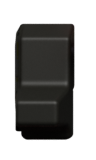
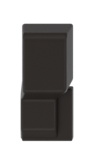
feat(panel): model drawbar and layer caps after the real parts
Owner photos of the real caps: black and white drawbars are one part, so
they now share one geometry and camera and differ only by material (no
per-instance projection). Drawbar cap: block with tapered sides and sloped
front, long lower nose offset left with chamfered front, low foot. Layer
cap: rounded frustum. Calibrated materials, Blender shadows.

Changed region(s): [[0.1562, 0.125, 0.7812, 0.9062]]

diff --git a/assets/blender/parts_cap.py b/assets/blender/parts_cap.py
@@ -1,104 +1,91 @@
 """Drawbar / layer-fader cap and its slotted plate for the B7 proof (runs inside Blender).
 
-Original art (D16): authored from two extruded side profiles. Sizes are numbers measured on the
-owner's private reference (1 u = 129 reference px, see parts_knob.REF_PX_PER_U).
+Original art (D16): geometry authored from primitives (lofted sections); shapes follow the
+owner's photos of the real parts. Sizes are numbers measured on the owner's private reference (1 u = 129 reference px, see parts_knob.REF_PX_PER_U).
 """
 
 from __future__ import annotations
 
-import bmesh
 import bpy
-from proof_geom import box, loft, mesh_obj
+from proof_geom import box, loft
 
-# EMPIRICAL: white drawbar cap on the reference is 100 px wide and 231 px long; the lower nose
-# block is narrower (85 px), shifted left, and ends in a chamfer that reads as a 30 px band.
-CAP_W = 0.85  # EMPIRICAL: fitted to the reference cap silhouettes (IoU), was 0.78
+# Shape EMPIRICAL from photos of the real parts (owner, 2026-11-13): the drawbar cap is one
+# part: a tall rear block whose sides and front slope inward, and a long lower nose with a
+# chamfered front, narrower and offset left (reference). Plan size EMPIRICAL from the
+# reference (100 x 231 px = 0.78 x 1.79 u at the base). Black and white caps share this geometry.
+CAP_W = 0.80
 CAP_BACK, CAP_FRONT = 0.90, -0.89
-# ASSUMED: top block, nose and front skirt heights (only the lean and shading show them).
-CAP_HT, CAP_HN, CAP_HS = 0.50, 0.30, 0.04
-SKIRT_H = 0.16  # ASSUMED: lower body height (only its outline is measured)
-NOSE_X = (-0.45, 0.16)  # EMPIRICAL: nose left / right edge (black 16' cap, 4x zoom read)
-CAP_TAPER = 0.05  # EMPIRICAL: side walls lean in by this fraction of the width at the top
-CAP_BEVEL = 0.07  # EMPIRICAL: soft rounded edges, larger than v2's 0.03
+CAP_HT, CAP_HN = 0.50, 0.26  # ASSUMED heights (photo ratio about 2 : 1)
+BLOCK_FRONT = -0.18  # base of the block's sloped front face
+BLOCK_TOP_FRONT = 0.02  # top edge of that face
+NOSE_TOP_FRONT, NOSE_CHAMFER_Z = -0.66, 0.08  # front chamfer of the nose
+# EMPIRICAL (reference, every drawbar): the nose is narrower than the block and offset left
+NOSE_X = (-0.42, 0.18)
+FOOT_H = 0.12  # ASSUMED: low base under the nose, full width
+CAP_TAPER = 0.18  # EMPIRICAL: block top is about 0.82 of its base width (photo, front view)
+CAP_BEVEL = 0.07
 CAP_LIFT = 0.03  # cap floats above the plate so the slot shows under it
-# EMPIRICAL: grey layer-fader cap on the reference is 96 px wide and 74 px long.
-LAYER_W, LAYER_L = 0.69, 0.585  # EMPIRICAL: silhouette fit (was 0.75 x 0.57)
-LAYER_H = 0.34  # ASSUMED
-LAYER_BEVEL = 0.09  # EMPIRICAL: the layer cap reads as a rounder, pillowy block
+# Layer-fader cap EMPIRICAL from its photo: a frustum, top smaller than the base on all sides,
+# rounded edges. Base 96 x 74 reference px.
+LAYER_W, LAYER_L, LAYER_H = 0.74, 0.58, 0.36
+LAYER_TOP = (0.82, 0.50)  # top width / length as a fraction of the base
+LAYER_BEVEL = 0.07
 # EMPIRICAL: slot is about 22 px wide on the reference, 0.22 of the cap width.
 SLOT_W, SLOT_LEN, SLOT_DEPTH, PLATE_T = 0.17, 3.4, 0.16, 0.2
 
 
-def _extrude_profile(name, prof, x0, x1, mat, z_top, bevel=CAP_BEVEL):
-    """Extrude a (y, z) side profile between x0 and x1, then lean the side walls inward with
-    height (the sloped wall of the reference caps)."""
-    bm = bmesh.new()
-    lo = [bm.verts.new((x0, y, z)) for y, z in prof]
-    hi = [bm.verts.new((x1, y, z)) for y, z in prof]
-    bm.faces.new(lo[::-1])
-    bm.faces.new(hi)
-    n = len(prof)
-    for i in range(n):
-        j = (i + 1) % n
-        bm.faces.new((lo[i], lo[j], hi[j], hi[i]))
-    cx, w = (x0 + x1) / 2, x1 - x0
-    for v in bm.verts:
-        k = CAP_TAPER * (v.co.z / z_top) * w / 2
-        v.co.x -= k if v.co.x > cx else -k
-        v.co.z += CAP_LIFT
-    bmesh.ops.recalc_face_normals(bm, faces=bm.faces)
-    return mesh_obj(name, bm, mat, bevel=bevel, segments=8, angle=20)
+def _section(y, z, top_frac, x0=-CAP_W / 2, x1=CAP_W / 2):
+    """Trapezoid cross-section at y between x0 and x1, `top_frac` of that width on top."""
+    c, hb = (x0 + x1) / 2, (x1 - x0) / 2
+    ht, zl = hb * top_frac, CAP_LIFT
+    return [(c - hb, y, zl), (c + hb, y, zl), (c + ht, y, zl + z), (c - ht, y, zl + z)]
 
 
-def _section(y, x0, x1, z):
-    """Cross-section ring at y: bottom edge, then the top edge pulled in by the wall slope."""
-    k = CAP_TAPER * (x1 - x0) / 2 * min(1.0, z / CAP_HT)
-    zl = CAP_LIFT
-    return [(x0, y, zl), (x1, y, zl), (x1 - k, y, zl + z), (x0 + k, y, zl + z)]
+def _frac(z):
+    return 1.0 - CAP_TAPER * z / CAP_HT
 
 
 def fader_cap(m, key):
-    """Drawbar cap, lofted from back to front: rounded back chamfer, long flat top, a slope that
-    narrows into a lower nose shifted left, then the front skirt at the foot (shadowed by the
-    nose). `key` picks cap_black / cap_white."""
-    ht, hn, hs = CAP_HT, CAP_HN, CAP_HS
-    half = CAP_W / 2
-    nx0, nx1 = NOSE_X
-    sections = [
-        (CAP_BACK, -half, half, ht - 0.12),
-        (CAP_BACK - 0.20, -half, half, ht),
-        (-0.10, -half, half, ht),
-        (-0.38, nx0, nx1, hn),
-        (-0.66, nx0, nx1, hn),
-        (-0.74, nx0, nx1, 0.06),
+    """Drawbar cap: flange, tall rear block with sloped sides and front, long lower nose with
+    a chamfered front, lofted from back to front. `key` picks the material."""
+    ht, hn = CAP_HT, CAP_HN
+    w = (-CAP_W / 2, CAP_W / 2)
+    secs = [
+        (CAP_BACK, ht * 0.86, *w),
+        (CAP_BACK - 0.08, ht, *w),
+        (BLOCK_TOP_FRONT, ht, *w),
+        (BLOCK_FRONT, hn, *NOSE_X),
+        (NOSE_TOP_FRONT, hn, *NOSE_X),
+        (CAP_FRONT, NOSE_CHAMFER_Z, *NOSE_X),
     ]
-    body = loft(
-        "cap_body",
-        [_section(*s) for s in sections],
+    rings = [_section(y, z, _frac(z), x0, x1) for y, z, x0, x1 in secs]
+    body = loft("cap_body", rings, m[key], smooth=False, bevel=CAP_BEVEL, segments=8)
+    # the nose sits on a low full-width foot that ends with the nose (seen right of the nose)
+    foot = loft(
+        "cap_foot",
+        [_section(y, FOOT_H, 0.97) for y in (BLOCK_FRONT + 0.1, CAP_FRONT)],
         m[key],
         smooth=False,
-        bevel=CAP_BEVEL,
-        segments=8,
+        bevel=0.02,
+        segments=3,
     )
-    skirt = _extrude_profile(
-        "cap_skirt",
-        # EMPIRICAL: the lower body runs full width under and right of the nose down to the
-        # front (silhouette fit on the reference)
-        [(-0.08, 0.0), (-0.08, SKIRT_H), (CAP_FRONT + 0.03, SKIRT_H), (CAP_FRONT, 0.0)],
-        -half,
-        half,
-        m[key],
-        hs,
-    )
-    return [body, skirt]
+    return [body, foot]
 
 
 def layer_cap(m, key):
-    """Short layer-fader cap: a small back chamfer, a short flat top and a long front slope (the
-    reference shows the slope as the largest face)."""
-    ht, y0, y1 = LAYER_H, -LAYER_L / 2, LAYER_L / 2
-    prof = [(y1, 0.0), (y1, ht - 0.08), (y1 - 0.08, ht), (0.05, ht), (y0 + 0.03, 0.10), (y0, 0.0)]
-    return [_extrude_profile("layer_cap", prof, -LAYER_W / 2, LAYER_W / 2, m[key], ht, LAYER_BEVEL)]
+    """Layer-fader cap: rounded frustum, top smaller than the base on all four sides."""
+    w, ln, h = LAYER_W / 2, LAYER_L / 2, LAYER_H
+    tw, tl = w * LAYER_TOP[0], ln * LAYER_TOP[1]
+    rings = [
+        [(-w, -ln, CAP_LIFT), (w, -ln, CAP_LIFT), (w, ln, CAP_LIFT), (-w, ln, CAP_LIFT)],
+        [
+            (-tw, -tl, CAP_LIFT + h),
+            (tw, -tl, CAP_LIFT + h),
+            (tw, tl, CAP_LIFT + h),
+            (-tw, tl, CAP_LIFT + h),
+        ],
+    ]
+    return [loft("layer_cap", rings, m[key], smooth=False, bevel=LAYER_BEVEL, segments=6)]
 
 
 def plate_slot(m):

diff --git a/assets/blender/build_proof.py b/assets/blender/build_proof.py
@@ -93,25 +93,20 @@ def render_ref_knobs(out: Path, scale: int) -> None:
 
 
 CAPS = {
-    "drawbar_cap_black": ("drawbar_shadow_black", C.fader_cap),
-    "drawbar_cap_white": ("drawbar_shadow_white", C.fader_cap),
-    "layer_cap_grey": ("layer_shadow_grey", C.layer_cap),
+    "drawbar_cap_black": ("drawbar_shadow_black", C.fader_cap, "cap_black", "drawbar"),
+    "drawbar_cap_white": ("drawbar_shadow_white", C.fader_cap, "cap_white", "drawbar"),
+    "layer_cap_grey": ("layer_shadow_grey", C.layer_cap, "cap_grey", "layer"),
 }
 
 
 def render_caps(out: Path, scale: int) -> None:
-    """3D caps textured by camera projection (D17): the geometry gives the silhouette and its
-    anti-aliased edge, the reference crop (`proj_<cap>.png` from tools/panel_refbake.py,
-    already aligned to this camera's frame) gives the colour, unlit. Then the cap's shadow
-    on the slotted plate from the same geometry and lean."""
-    for name, (shadow, make) in CAPS.items():
-        m = fresh(scale, name, name)
-        mat = M.projected(f"proj_{name}", P.RAW_DIR / f"proj_{name}.png")
-        make({"proj": mat}, "proj")
-        cy = bpy.context.scene.cycles
-        cy.use_denoising, cy.samples = False, 64  # unlit texture: no noise, keep it sharp
+    """Caps as real parts: one geometry per part (both drawbar colours share it, same camera),
+    shaded with the calibrated materials, then the cap's shadow from the same geometry."""
+    for name, (shadow, make, mat, lean) in CAPS.items():
+        m = fresh(scale, name, lean)
+        make(m, mat)
         S.render(out / f"{name}_{scale}x.png")
-        m = fresh(scale, shadow, name)
+        m = fresh(scale, shadow, lean)
         S.flags(C.plate_slot(M.catcher_mats()), catcher=True)
         S.flags(make(m, "cap_black"), holdout=True)
         S.render(out / f"{shadow}_{scale}x.png")

diff --git a/assets/blender/proof_materials.py b/assets/blender/proof_materials.py
@@ -35,7 +35,7 @@ GAIN = {
     "silver": (1.091, 1.101, 1.078),
     "cap_black": (0.38, 0.307, 0.24),
     "cap_white": (1.059, 1.05, 1.039),
-    "cap_grey": (1.418, 1.407, 1.368),
+    "cap_grey": (1.12, 1.112, 1.081),
     "ring": (1.08, 1.08, 1.06),
     "knob_side": (1.8, 1.8, 1.8),
     "knob_top": (0.7, 0.66, 0.6),
@@ -175,7 +175,7 @@ def mats() -> dict[str, bpy.types.Material]:
         "pointer": material("pointer", u["pointer"], 0.45),
         "ring": material("ring", u["ring_white"], 0.6, gain=GAIN["ring"], spec=0.2),
         "cap_black": material(
-            "cap_black", u["cap_black_top"], 0.32, gain=GAIN["cap_black"], spec=0.8
+            "cap_black", u["cap_black_top"], 0.4, gain=GAIN["cap_black"], spec=0.35
         ),
         "cap_white": material(
             "cap_white", u["cap_white_top"], 0.35, gain=GAIN["cap_white"], spec=0.6

diff --git a/tools/panel_assets.py b/tools/panel_assets.py
@@ -53,7 +53,7 @@ LEAN = {
     # optical axis is above that knob (the reference is cropped off-centre vertically).
     "knob_master": (6.57, 1.0),
     "knob_drive": (6.57, 1.4),
-    "drawbar": (1.3, 2.97),
+    "drawbar": (1.3, 5.3),  # EMPIRICAL: between the 16' and 8' caps, axis above centre
     "layer": (5.29, -2.73),
     "button": (6.59, 0.70),
     "plate": (0.0, 0.0),

diff --git a/docs/research/panel-blender-proof.md b/docs/research/panel-blender-proof.md
@@ -65,7 +65,9 @@ MAD (mean absolute difference, 0..255) compares ours with the same reference are
 
 Sizes with the full style set: the proof set is 824 KB (1x) / 2.76 MB (2x) PNG. The full-panel estimate assumes 6 knob styles and 15 button styles, each button getting two more states later: 2.16 MB / 6.64 MB PNG, and 15.5 MB / 62.1 MB RGBA in GPU memory. The private comparison sheet is `.reference/panel-compare-v5.png`.
 
-Owner review of v4 (2026-11-13): the Blender drawbar and layer caps did not match, the DRIVE knob looked flat with a light red rim, and its "6" was clipped. Fixes: the caps are now cut from the reference with their own shadow layers. The knob edge colours are taken from the cap interior instead of the red plate. Second review: the plate grain was too soft (patch blending and the whole-tile cross-fade averaged two textures), so the tiles are now quilted on a torus with narrow overlaps. The caps showed a light halo, LED glow and label ticks; they now use a colour matte on the edge (alpha from the position between the local cap and plate colours), the LED glow is recoloured from the clean cap, the top block sides are straightened, and the shadow layer leaves out the edge pixels next to the cap. The button crops are inset 1 px. Third review: light bits at the white cap corners came from the silver label next to the cap unmixing as cap; bluish pixels outside the cap are now always transparent. The plate behind the caps (`plate_slate_slot`) was still the Blender slate; `pack` now keeps only the Blender slot and fills the plate with the reference slate tile shifted to the darker slate of the drawbar area (47, 57, 68), so that plate is now reference-derived (D17). Fifth review (cutouts replaced by 3D): the owner asked for real rendered borders. The caps are now Blender geometry (`parts_cap.py`) rendered with a camera at each cap's own lean (`panel_assets.LEAN`). The material is unlit and shows the reference crop through window (screen) coordinates, so the crop is projected onto the geometry from that camera (`proof_materials.projected`). The crop comes from `tools/panel_refcaps.projection_texture`, with the plate around the cap filled with cap colour. The silhouette and its anti-aliased edge therefore come from the geometry, and the colour from the reference. The geometry was fitted to the reference silhouettes: cap width 0.85 u, lower body full width from under the top block to the front, layer cap 0.69 x 0.585 u, and per-cap centre and lean. Silhouette IoU (rendered alpha vs reference cap mask, 2x): black 0.94, white 0.94, grey layer 0.90. The shadows are 3D shadow-catcher renders from the same geometry. The previous 2D cut-out steps described next were superseded for the caps.
+Owner review of v4 (2026-11-13): the Blender drawbar and layer caps did not match, the DRIVE knob looked flat with a light red rim, and its "6" was clipped. Fixes: the caps are now cut from the reference with their own shadow layers. The knob edge colours are taken from the cap interior instead of the red plate. Second review: the plate grain was too soft (patch blending and the whole-tile cross-fade averaged two textures), so the tiles are now quilted on a torus with narrow overlaps. The caps showed a light halo, LED glow and label ticks; they now use a colour matte on the edge (alpha from the position between the local cap and plate colours), the LED glow is recoloured from the clean cap, the top block sides are straightened, and the shadow layer leaves out the edge pixels next to the cap. The button crops are inset 1 px. Third review: light bits at the white cap corners came from the silver label next to the cap unmixing as cap; bluish pixels outside the cap are now always transparent. The plate behind the caps (`plate_slate_slot`) was still the Blender slate; `pack` now keeps only the Blender slot and fills the plate with the reference slate tile shifted to the darker slate of the drawbar area (47, 57, 68), so that plate is now reference-derived (D17). Sixth review (real parts): with the owner's photos of the real drawbar and layer-fader caps, the black and white drawbar caps are one shared part rendered with the same camera (`LEAN["drawbar"]`) and the calibrated materials, not two shapes fitted per instance with the reference projected on them. The drawbar cap is a lofted block with sides tapering to 0.82 of the base, a sloped front, a long lower nose (narrower and offset left, as on every drawbar of the reference) with a chamfered front, on a low full-width foot. The layer cap is a rounded frustum. The projection step below is kept in the tools but no longer used by the caps.
+
+Fifth review (cutouts replaced by 3D): the owner asked for real rendered borders. The caps are now Blender geometry (`parts_cap.py`) rendered with a camera at each cap's own lean (`panel_assets.LEAN`). The material is unlit and shows the reference crop through window (screen) coordinates, so the crop is projected onto the geometry from that camera (`proof_materials.projected`). The crop comes from `tools/panel_refcaps.projection_texture`, with the plate around the cap filled with cap colour. The silhouette and its anti-aliased edge therefore come from the geometry, and the colour from the reference. The geometry was fitted to the reference silhouettes: cap width 0.85 u, lower body full width from under the top block to the front, layer cap 0.69 x 0.585 u, and per-cap centre and lean. Silhouette IoU (rendered alpha vs reference cap mask, 2x): black 0.94, white 0.94, grey layer 0.90. The shadows are 3D shadow-catcher renders from the same geometry. The previous 2D cut-out steps described next were superseded for the caps.
 
 Fourth review (edge quality): the cap alpha is no longer the ragged pixel mask; it is smoothed geometrically (opening, 2 px blur, threshold at 4x, box downsample), which removes nubs and gives anti-aliased straight edges and round corners, and a 2 px band inside the edge takes the cap colour from the interior. The shadow layer starts below the top 30 % of the cap (LED ladders sit beside the top block). Top-face pointer pixels are inpainted by turning about the leaning top centre. The label mask no longer touches the "6".
 

diff --git a/docs/specs/visual-style-and-panel.md b/docs/specs/visual-style-and-panel.md
@@ -126,7 +126,7 @@ To keep every label legible on standard 1080p/1440p/4K monitors and inside DAW p
 
 ## 6. Baked sprite proof (B7, Phase 6b)
 
-Measured output of the D15 baker (v4, matched feature by feature to the owner's private Organ section render; since [D17](../DECISIONS.md#d17-panel-proof-sprites-may-be-derived-from-the-reference-render) buttons, triangle selectors, knob bodies, the DRIVE scale and plate tiles are cut from the reference by `tools/panel_refbake.py`, and the drawbar and layer caps are 3D renders coloured by the reference projected from their camera, tagged `REFERENCE-DERIVED (D17)`): a knob filmstrip with two separate overlay layers (arc ring, numbered DRIVE scale), drawbar caps (black, white) with one shared shadow, a grey layer-fader cap with its own shadow, grey and black pill buttons in their wells, three seamless plate tiles (red leather, slate, silver header) and the slotted slate plate. Rendered by `assets/blender/build_proof.py`, committed under `assets/panel/proof/` with SHA-256 hashes in `manifest.json` (`python tools/panel_assets.py verify`). Colours and proportions are numbers measured on the reference, stored in [`assets/panel/theme_samples.json`](../../assets/panel/theme_samples.json) (no pixels, D16). Details, method, sizes and what still differs: [panel-blender-proof.md](../research/panel-blender-proof.md).
+Measured output of the D15 baker (v4, matched feature by feature to the owner's private Organ section render; since [D17](../DECISIONS.md#d17-panel-proof-sprites-may-be-derived-from-the-reference-render) buttons, triangle selectors, knob bodies, the DRIVE scale and plate tiles are cut from the reference by `tools/panel_refbake.py`, tagged `REFERENCE-DERIVED (D17)`): a knob filmstrip with two separate overlay layers (arc ring, numbered DRIVE scale), drawbar caps (black, white) with one shared shadow, a grey layer-fader cap with its own shadow, grey and black pill buttons in their wells, three seamless plate tiles (red leather, slate, silver header) and the slotted slate plate. Rendered by `assets/blender/build_proof.py`, committed under `assets/panel/proof/` with SHA-256 hashes in `manifest.json` (`python tools/panel_assets.py verify`). Colours and proportions are numbers measured on the reference, stored in [`assets/panel/theme_samples.json`](../../assets/panel/theme_samples.json) (no pixels, D16). Details, method, sizes and what still differs: [panel-blender-proof.md](../research/panel-blender-proof.md).
 
 | Item | Value | Tag |
 |---|---|---|
@@ -136,8 +136,8 @@ Measured output of the D15 baker (v4, matched feature by feature to the owner's 
 | Knob filmstrip | 64 frames, 8x8 grid, frame 96 px (1x) / 192 px (2x), transparent, pointer -135 to +135 deg clockwise; 20 flutes, bent tapered pointer | rotation and proportions `EMPIRICAL` |
 | Knob arc ring | own layer, 270 deg, outer 1.31 x cap radius, thickness 3 to 15 reference px | `EMPIRICAL` (circle fit) |
 | Reference knobs | Master Level and DRIVE: cap body from the reference (pointer removed), Blender pointer filmstrip (64 frames, cap holdout) and shadow at each knob's lean; DRIVE numeral scale layer from the reference | `REFERENCE-DERIVED (D17)` body and scale, pointer `EMPIRICAL` |
-| Drawbar caps | black (16'), white (8'); 96 x 160 px (1x); 3D geometry coloured by the projected reference crop, Blender shadow per cap | geometry `EMPIRICAL` (silhouette fit, IoU 0.94), colour `REFERENCE-DERIVED (D17)` |
-| Layer-fader cap | grey; 96 x 96 px (1x); 3D geometry, projected reference colour, own Blender shadow | geometry `EMPIRICAL` (IoU 0.90), colour `REFERENCE-DERIVED (D17)` |
+| Drawbar caps | black (16'), white (8'); 96 x 160 px (1x); one shared 3D part (block with tapered sides, sloped front, long lower nose offset left, chamfered front, low foot), same camera for both colours, calibrated materials, Blender shadow | shape from the owner's photos of the real part, size `EMPIRICAL` |
+| Layer-fader cap | grey; 96 x 96 px (1x); 3D rounded frustum, calibrated material, own Blender shadow | shape from the owner's photo, size `EMPIRICAL` |
 | Buttons | all 15 buttons of the reference (black and grey pills, octave pair), up state with well, one sprite per instance (about 68 x 38 px at 1x) | `REFERENCE-DERIVED (D17)` |
 | Triangle selectors | ORGAN MODEL and VIB/CHORUS matrices, unlit base plus lit overlay (left, up; right and down mirrored) | `REFERENCE-DERIVED (D17)` |
 | Plate tiles | red, slate, silver; 128 px (1x), seamless, quilted from clean reference patches shifted to the measured colours | `REFERENCE-DERIVED (D17)` |

diff --git a/docs/DECISIONS.md b/docs/DECISIONS.md
@@ -219,6 +219,6 @@ Each decision records **Context, Decision, Why, Alternatives, Impact**, plus **S
   - B. Keep reference-derived sprites local only (git-ignored): no publication risk, but the app and CI would not have the assets.
 - **Impact:**
   - **Copyright risk:** the repository `ymatrix1/nord-stage-4-emulator` is public. The committed sprites below are derived from Clavia's own product imagery. Publishing them carries a copyright (and, for the look of the product, trade-dress) risk that D16 had avoided. The owner accepted this risk on 2026-11-13. This is a project decision, not legal advice.
-  - **Reference-derived files** (both 1x and 2x, in `assets/panel/proof/`): `button_*` (15 buttons), `tri_organ_model`, `tri_vib_chorus`, `tri_lit_left`, `tri_lit_up`, `knob_body_master`, `knob_body_drive`, `knob_scale`, `drawbar_cap_black`, `drawbar_cap_white`, `layer_cap_grey` (3D Blender geometry whose colour is the reference crop projected from the matching camera; their shadows are plain Blender renders), `plate_red`, `plate_slate`, `plate_silver`. The list is generated by `panel_assets.ref_sprites()`. These can be swapped back to original renders by dropping them from `ref_crops.json` and restoring the Blender stages.
-  - **Still original (D16 rules):** `knob_filmstrip` (generic knob), `pointer_*` filmstrips, `knob_shadow_*`, `knob_ring`, and the slot itself in `plate_slate_slot` (its plate area is the reference slate tile).
+  - **Reference-derived files** (both 1x and 2x, in `assets/panel/proof/`): `button_*` (15 buttons), `tri_organ_model`, `tri_vib_chorus`, `tri_lit_left`, `tri_lit_up`, `knob_body_master`, `knob_body_drive`, `knob_scale`, `plate_red`, `plate_slate`, `plate_silver`. The list is generated by `panel_assets.ref_sprites()`. These can be swapped back to original renders by dropping them from `ref_crops.json` and restoring the Blender stages.
+  - **Still original (D16 rules):** `knob_filmstrip` (generic knob), `pointer_*` filmstrips, `knob_shadow_*`, `knob_ring`, the drawbar and layer caps and their shadows (3D parts modelled after the owner's photos of the real caps), and the slot itself in `plate_slate_slot` (its plate area is the reference slate tile).
   - Provenance tags: reference-derived sprites are tagged `REFERENCE-DERIVED (D17)` in `ref_crops.json`, the research note and spec [visual-style-and-panel.md](specs/visual-style-and-panel.md) §6.
